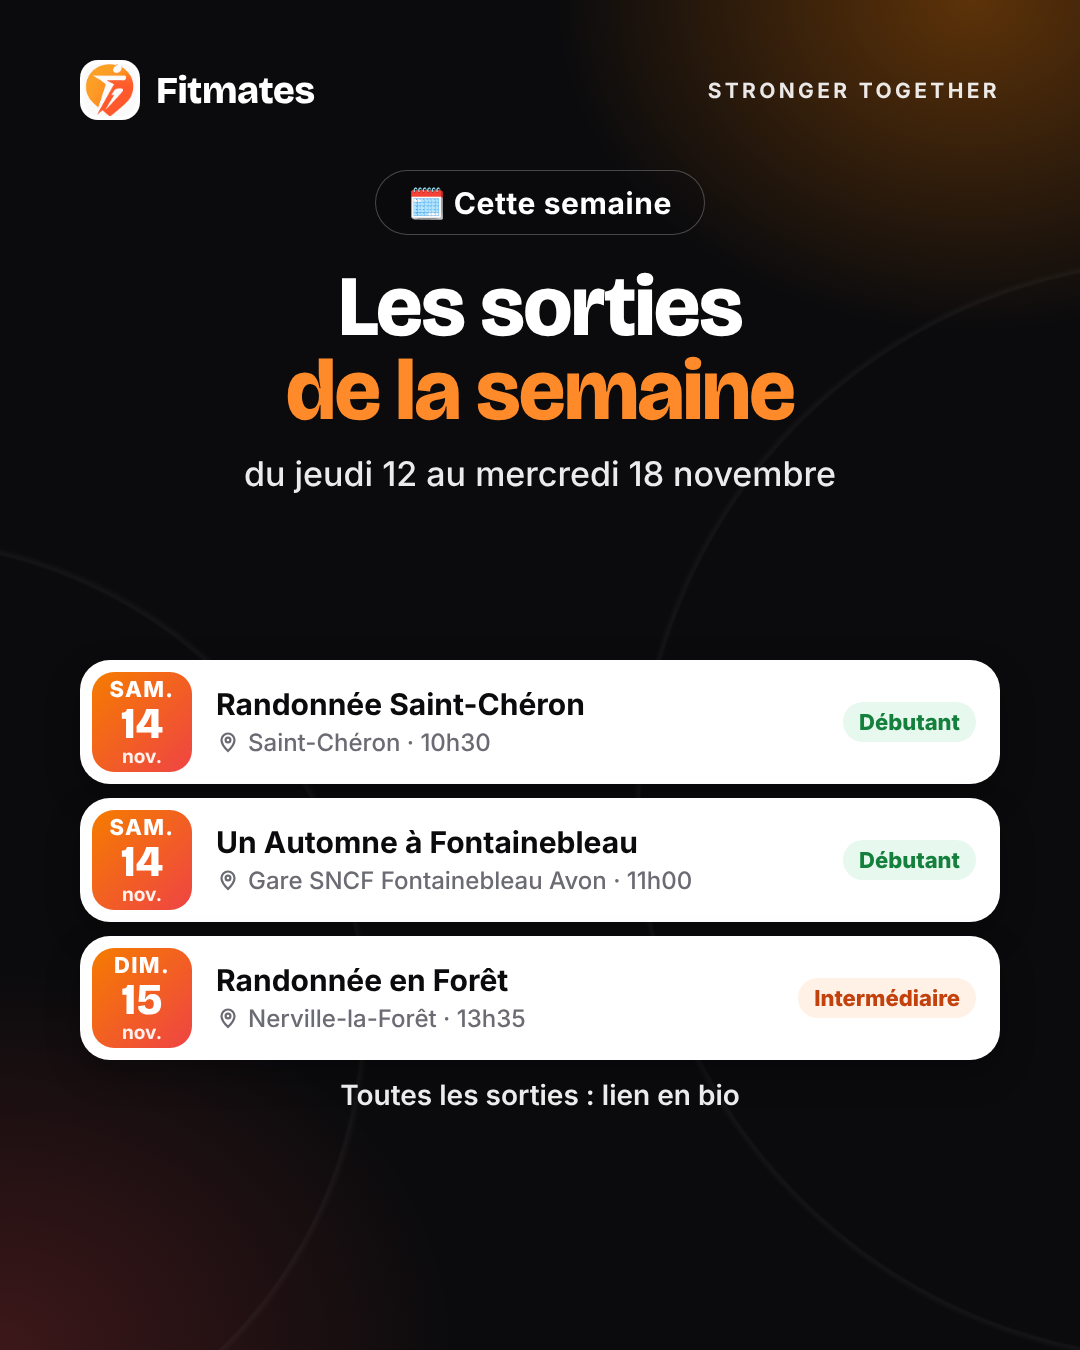
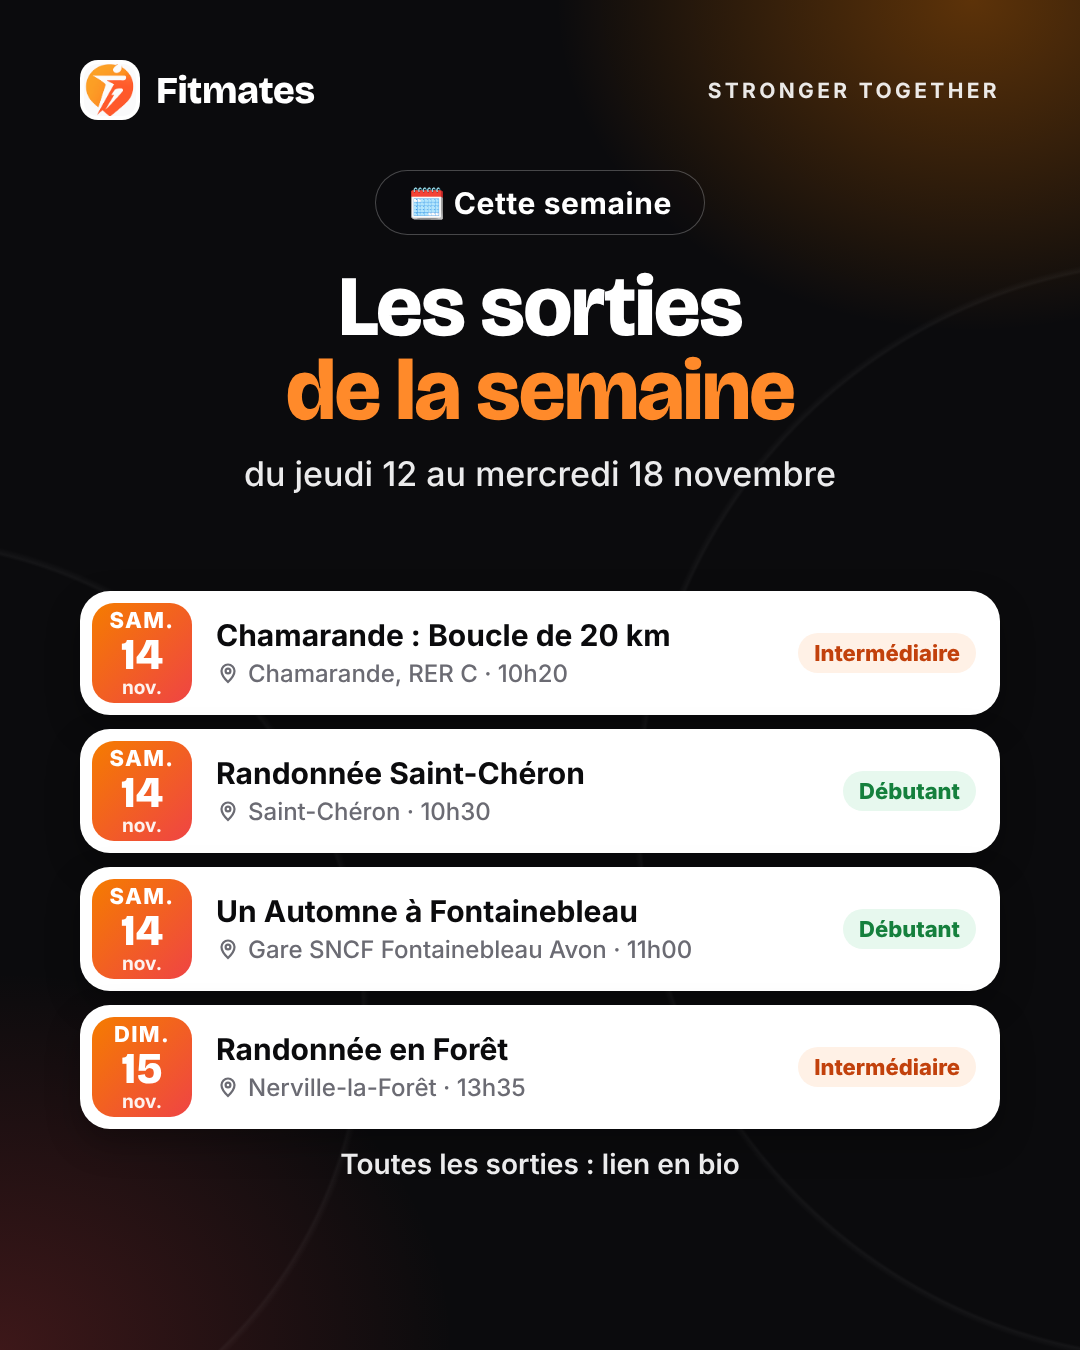
Réseaux : post du 12/11 mis à jour (4 sorties), sigles et deux-points corrigés
Une sortie ajoutée au flux depuis mardi (Chamarande, samedi 14). Le script met les sigles
en capitales même en casse mixte (« Rer C » → « RER C ») et l'espace avant les deux-points.

Claude-Session: https://claude.ai/code/session_01XNHWdd3Ezaz2t3MR6axpZZ

Changed region(s): [[0.0611, 0.4356, 0.9472, 0.8711]]

diff --git a/scripts/social_weekly.py b/scripts/social_weekly.py
@@ -81,7 +81,9 @@ def _casse(s: str) -> str:
     """Un titre ou un lieu saisi TOUT EN MAJUSCULES passe en casse de titre (« Gare SNCF Fontainebleau Avon »)."""
     lettres = [c for c in s if c.isalpha()]
     if len(lettres) < 4 or sum(c.isupper() for c in lettres) / len(lettres) < 0.8:
-        return s
+        # Casse déjà mixte : seulement les sigles (« Rer C » → « RER C ») et l'espace avant les deux-points
+        s = re.sub(r"\b(" + "|".join(SIGLES) + r")\b", lambda m: m.group(1).upper(), s, flags=re.I)
+        return re.sub(r"(\w):(\s)", r"\1 :\2", s)
     mots = []
     for i, m in enumerate(s.split(" ")):
         brut = m.strip(".,;:!?()")
